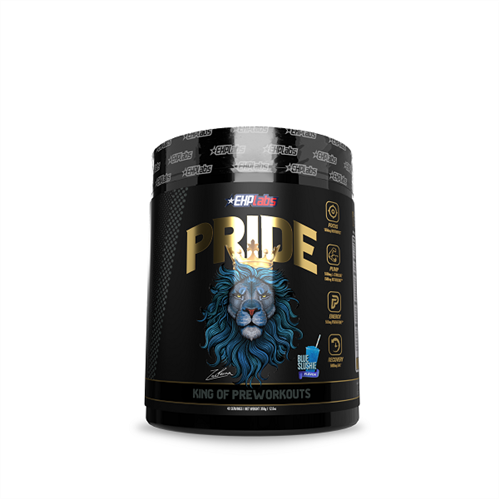
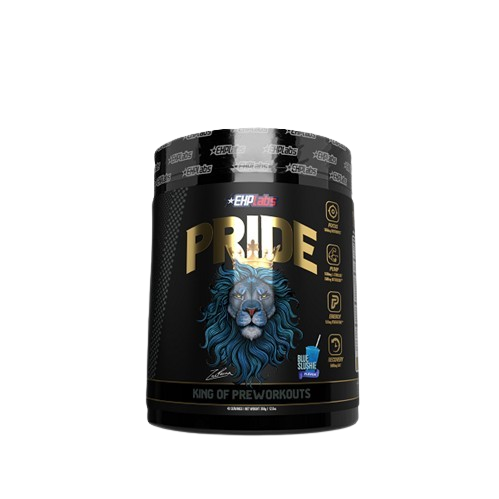
Touched up the images to remove background

diff --git a/Gym Store/Migrations/20250502035333_InitialMigration.Designer.cs b/Gym Store/Migrations/20250502035333_InitialMigration.Designer.cs
@@ -11,7 +11,7 @@ using Microsoft.EntityFrameworkCore.Storage.ValueConversion;
 namespace Gym_Store.Migrations
 {
     [DbContext(typeof(ApplicationDbContext))]
-    [Migration("20250502032947_InitialMigration")]
+    [Migration("20250502035333_InitialMigration")]
     partial class InitialMigration
     {
         /// <inheritdoc />
